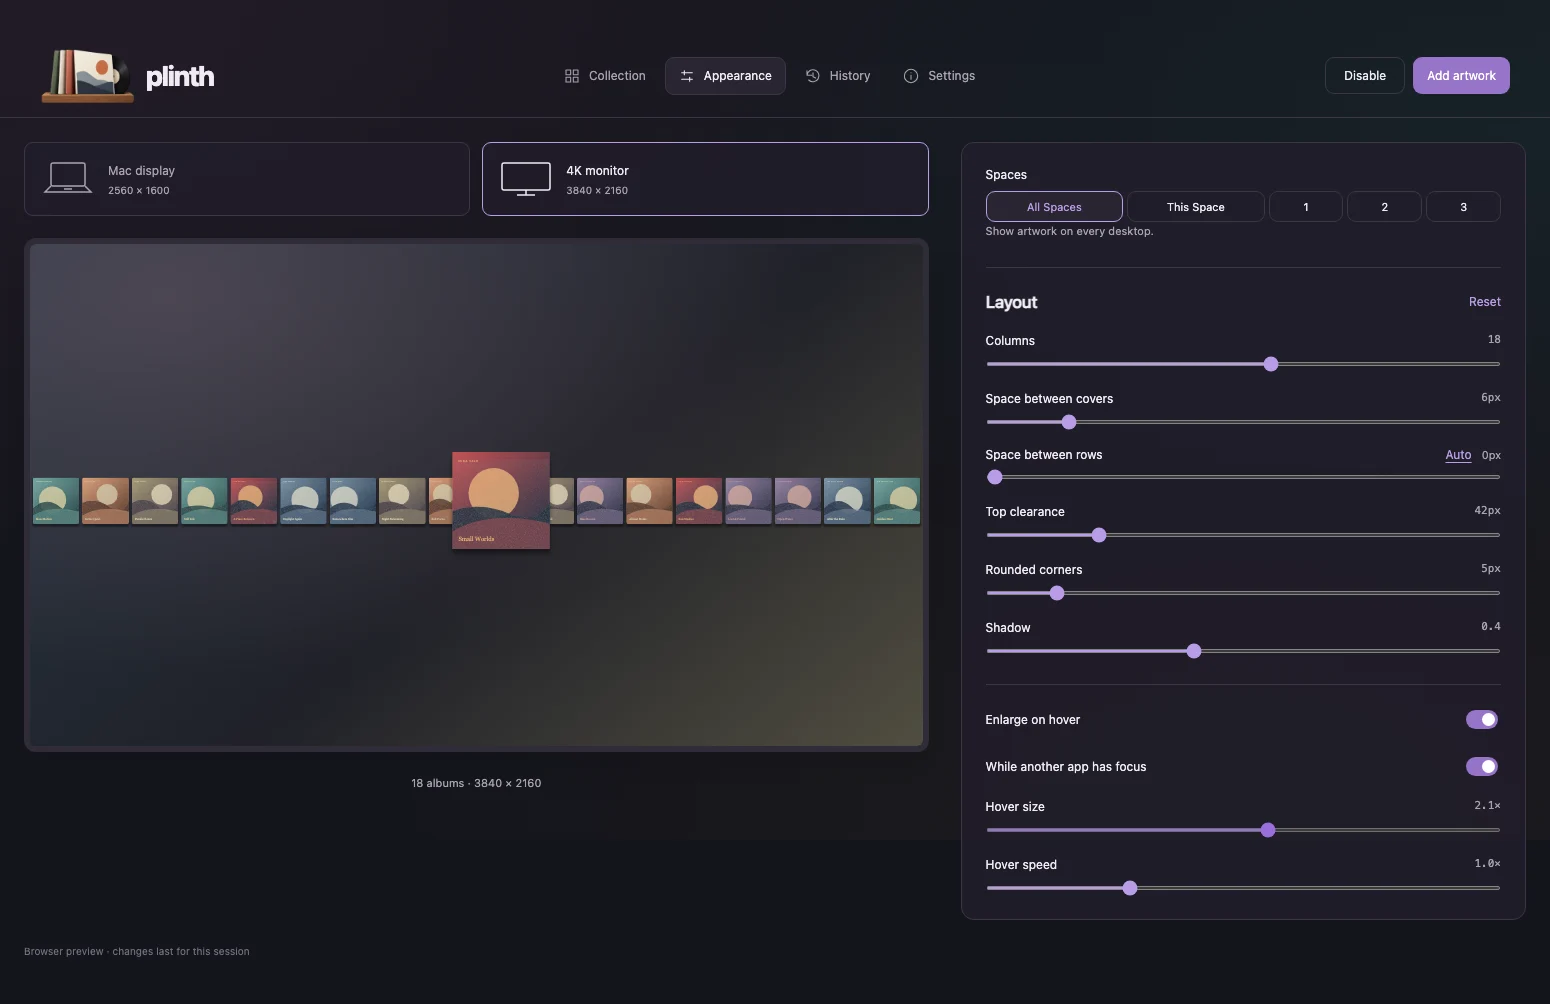
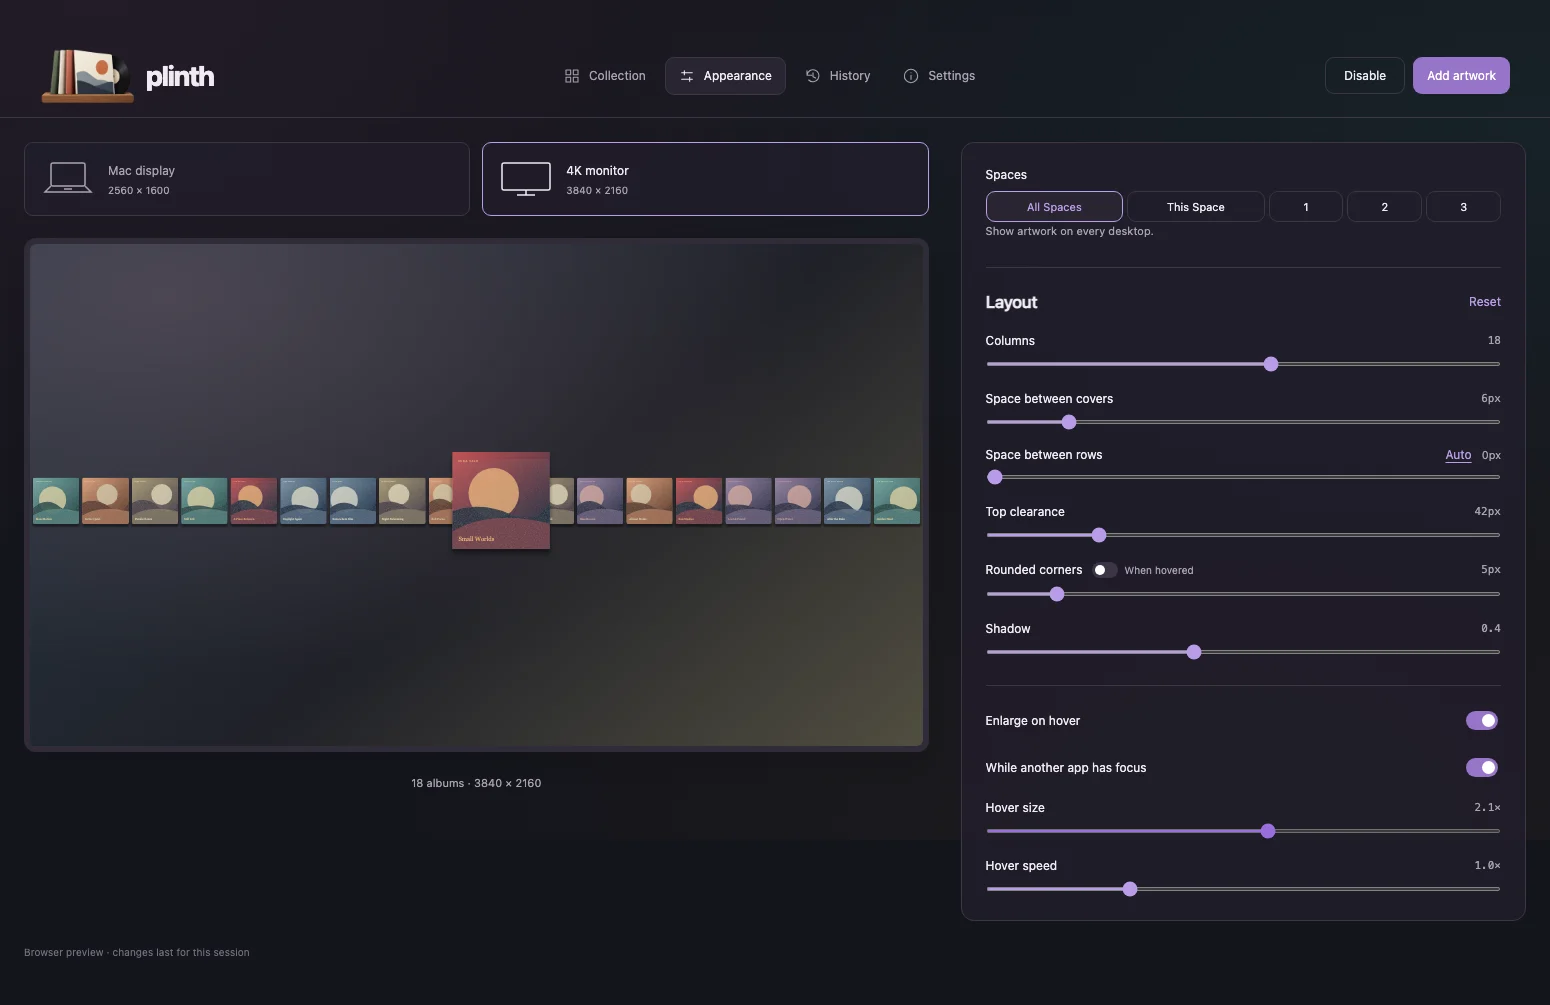
Add optional rounded corners during hover

diff --git a/src/App.svelte b/src/App.svelte
@@ -89,7 +89,7 @@
   const snapshot=structuredClone(library.settings)
   saveTimer=setTimeout(()=>{saveQueue=saveQueue.then(()=>api.saveSettings(snapshot)).then(()=>{if(revision===settingsRevision)settingsDirty=false}).catch(e=>{error=String(e)})},100)
  }
- function changeLayout(key:keyof Layout,value:number|null) {library.settings[profile]={...layout,[key]:value};persist()}
+ function changeLayout(key:keyof Layout,value:number|boolean|null) {library.settings[profile]={...layout,[key]:value};persist()}
  async function importPaths(paths:string[]) {if(!paths.length)return;busy=true;error='';try{const r=await api.importPaths(paths);message(`${r.added} artwork${r.added===1?'':'s'} added${r.duplicates?` · ${r.duplicates} already in your collection`:''}`);if(r.errors.length)error=r.errors.join('\n')}catch(e){error=String(e)}finally{busy=false}}
  async function choose() {if(!api.native){files.click();return}try{await importPaths(await api.chooseImages())}catch(e){error=String(e)}}
  async function browserFiles(selected:File[]) {busy=true;try{const r=await api.importBrowserFiles(selected);message(`${r.added} artworks added${r.duplicates?` · ${r.duplicates} already in your collection`:''}`);if(r.errors.length)error=r.errors.join('\n')}catch(e){error=String(e)}finally{busy=false}}
@@ -198,7 +198,7 @@
      <div class="preview-render" style={`width:${screen.width}px;height:${screen.height}px;transform:scale(${previewWidth/screen.width})`}><Desktop bind:this={desktopPreview} {library} preview forcedLayout={layout} viewportHeight={screen.height} viewportWidth={screen.width} menuBarHeight={screen.menuBarHeight}/></div>
     </div></div><p class="preview-note">{enabled.length} albums · {screen.pixels}</p></section>
     <section class="controls panel"><div class="spaces-field"><span id="spaces-label">Spaces</span><div class="space-options" onpointerenter={()=>void refreshSpaces()} role="group" aria-labelledby="spaces-label"><button aria-pressed={settings.allSpaces&&!settings.targetSpace} disabled={spaceSaving} onclick={()=>void chooseSpace('all')}>All Spaces</button><button aria-pressed={!settings.allSpaces&&!settings.targetSpace} disabled={spaceSaving} onclick={()=>void chooseSpace('current')}>This Space</button>{#each [1,2,3] as number}<button aria-label={`Space ${number}`} aria-pressed={settings.targetSpace===number} disabled={spaceSaving||!availableSpaces.includes(number)} title={availableSpaces.includes(number)?`Desktop ${number}`:`Create Desktop ${number} in Mission Control`} onclick={()=>void chooseSpace(number)}>{number}</button>{/each}</div></div><p class="field-note">{spacesReason?spacesReason:settings.targetSpace?(availableSpaces.includes(settings.targetSpace)?`Keep artwork on Desktop ${settings.targetSpace}.`:`Desktop ${settings.targetSpace} is unavailable. Create it in Mission Control or choose another option.`):settings.allSpaces?'Show artwork on every desktop.':'Use the active desktop when artwork is enabled.'}</p><div class="control-divider"></div><div class="panel-heading" style="margin-top:24px"><h2>Layout</h2><button class="text-button" onclick={resetLayout}>Reset</button></div>
-    {#each [{key:'columns',label:'Columns',min:3,max:30,step:1,unit:''},{key:'gap',label:'Space between covers',min:0,max:40,step:1,unit:'px'},{key:'top',label:'Top clearance',min:0,max:200,step:1,unit:'px'},{key:'radius',label:'Rounded corners',min:0,max:40,step:1,unit:'px'},{key:'shadow',label:'Shadow',min:0,max:1,step:.05,unit:''}] as control}<label class="slider-field"><span>{control.label}<output>{layout[control.key as keyof Layout]}{control.unit}</output></span><input type="range" aria-label={control.label} min={control.min} max={control.max} step={control.step} value={layout[control.key as keyof Layout]} oninput={(e)=>changeLayout(control.key as keyof Layout,Number(e.currentTarget.value))}/></label>{#if control.key==='gap'}
+    {#each [{key:'columns',label:'Columns',min:3,max:30,step:1,unit:''},{key:'gap',label:'Space between covers',min:0,max:40,step:1,unit:'px'},{key:'top',label:'Top clearance',min:0,max:200,step:1,unit:'px'},{key:'radius',label:'Rounded corners',min:0,max:40,step:1,unit:'px'},{key:'shadow',label:'Shadow',min:0,max:1,step:.05,unit:''}] as control}<div class="slider-field"><span><label for={`layout-${control.key}`}>{control.label}</label>{#if control.key==='radius'}<label class="hover-corners-toggle"><input class="switch" type="checkbox" checked={layout.roundedOnHover??false} onchange={(e)=>changeLayout('roundedOnHover',e.currentTarget.checked)}/>When hovered</label>{/if}<output>{layout[control.key as keyof Layout]}{control.unit}</output></span><input id={`layout-${control.key}`} type="range" aria-label={control.label} min={control.min} max={control.max} step={control.step} value={layout[control.key as keyof Layout]} oninput={(e)=>changeLayout(control.key as keyof Layout,Number(e.currentTarget.value))}/></div>{#if control.key==='gap'}
     <div class="row-spacing-field"><div><label for="row-spacing">Space between rows</label><button class="text-button" aria-label="Automatic row spacing" aria-pressed={layout.rowGap===null} onclick={()=>changeLayout('rowGap',null)}>Auto</button><output for="row-spacing">{Math.round(rowSpacing.rowGap)}px</output></div><input id="row-spacing" aria-label="Space between rows" type="range" min="0" max={Math.max(80,Math.ceil(desktopSpacing({...layout,rowGap:null},screen.width,screen.height,enabled.length,screen.menuBarHeight).rowGap),layout.rowGap??0)} step="1" value={rowSpacing.rowGap} oninput={(e)=>changeLayout('rowGap',Number(e.currentTarget.value))}/></div>
     {/if}{/each}
     <div class="control-divider"></div><label class="toggle-row"><span>Enlarge on hover</span><input class="switch" type="checkbox" bind:checked={settings.hoverEnabled} onchange={persist}/></label><label class="toggle-row"><span>While another app has focus</span><input class="switch" type="checkbox" disabled={!settings.hoverEnabled} bind:checked={settings.hoverInBackground} onchange={persist}/></label><label class="slider-field"><span>Hover size<output>{settings.hoverScale.toFixed(1)}×</output></span><input aria-label="Hover size" onpointerdown={startHoverPreview} onlostpointercapture={stopHoverPreview} type="range" min="1" max="3" step=".1" bind:value={settings.hoverScale} oninput={persist}/></label><label class="slider-field"><span>Hover speed<output>{(settings.hoverSpeed??1).toFixed(2).replace(/0$/,'')}×</output></span><input aria-label="Hover speed" onpointerdown={startHoverPreview} onlostpointercapture={stopHoverPreview} type="range" min=".25" max="3" step=".25" bind:value={settings.hoverSpeed} oninput={persist}/></label></section></div>

diff --git a/src/lib/types.ts b/src/lib/types.ts
@@ -1,9 +1,9 @@
 import type { LogoId } from './logos'
 export interface Album { id: string; title: string; artist: string; date: string; url: string; cover: string; original: string; enabled: boolean }
-export interface Layout { columns: number; gap: number; rowGap: number|null; top: number; radius: number; shadow: number }
+export interface Layout { columns: number; gap: number; rowGap: number|null; top: number; radius: number; roundedOnHover: boolean; shadow: number }
 export interface Settings { layout: Layout; wideLayout: Layout; hoverScale: number; hoverSpeed: number; hoverEnabled: boolean; hoverInBackground: boolean; sort: string; shuffleSeed: number; theme: string; logo: LogoId; desktopEnabled: boolean; allSpaces: boolean; targetSpace: number|null; openMode: string }
 export interface Library { albums: Album[]; settings: Settings }
-export const defaultLayout: Layout = { columns: 12, gap: 6, rowGap: null, top: 42, radius: 5, shadow: .4 }
+export const defaultLayout: Layout = { columns: 12, gap: 6, rowGap: null, top: 42, radius: 5, roundedOnHover: false, shadow: .4 }
 export const defaultSettings: Settings = { layout: {...defaultLayout}, wideLayout: {...defaultLayout, columns: 18}, hoverScale: 2.1, hoverSpeed: 1, hoverEnabled: true, hoverInBackground: true, sort: 'artist', shuffleSeed:0, theme: 'dark', logo: 'logo-1', desktopEnabled: true, allSpaces: true, targetSpace: null, openMode: 'library' }
 function shuffleRank(id:string,seed:number){let h=seed^2166136261;for(let i=0;i<id.length;i++){h=Math.imul(h^id.charCodeAt(i),16777619)}h=Math.imul(h^(h>>>16),2246822507);h=Math.imul(h^(h>>>13),3266489909);return (h^(h>>>16))>>>0}
 export function ordered(albums: Album[], sort: string, seed=0) { return [...albums].sort((a,b) => sort === 'shuffle' ? shuffleRank(a.id,seed)-shuffleRank(b.id,seed) : sort === 'date' ? b.date.localeCompare(a.date) : sort === 'oldest' ? a.date.localeCompare(b.date) : sort === 'title' ? a.title.localeCompare(b.title) : a.artist.localeCompare(b.artist) || a.date.localeCompare(b.date) || a.title.localeCompare(b.title)) }

diff --git a/tests/hover-size.spec.ts b/tests/hover-size.spec.ts
@@ -78,3 +78,27 @@ test('background hover option sits beneath enlarge and restores through history'
  await enlarge.uncheck();await expect(background).toBeDisabled()
  await enlarge.check();await expect(background).toBeEnabled();await expect(background).not.toBeChecked()
 })
+
+test('rounded corners on hover default off and restore independently for each display',async({page})=>{
+ await page.goto('/?demo=1');await page.getByRole('button',{name:'Appearance',exact:true}).click()
+ const toggle=page.getByRole('checkbox',{name:'When hovered',exact:true})
+ await expect(toggle).not.toBeChecked()
+ await page.getByRole('slider',{name:'Rounded corners',exact:true}).fill('20')
+ await toggle.check()
+ const cover=page.locator('.preview-render .desktop-cover').first()
+ await cover.hover()
+ await expect(cover).toHaveClass(/enlarged/)
+ await expect(cover).toHaveCSS('border-radius','20px')
+ await page.mouse.move(0,0)
+ await page.keyboard.press('Meta+z');await expect(toggle).not.toBeChecked()
+ await cover.hover();await expect(cover).toHaveCSS('border-radius','0px')
+ await page.mouse.move(0,0)
+ await page.keyboard.press('Meta+Shift+z');await expect(toggle).toBeChecked()
+ await cover.hover();await expect(cover).toHaveCSS('border-radius','20px')
+ await page.getByRole('button',{name:/4K monitor/}).click()
+ await expect(toggle).not.toBeChecked()
+ await page.getByRole('button',{name:/Mac display/}).click()
+ await expect(toggle).toBeChecked()
+ await page.getByRole('button',{name:'History',exact:true}).click()
+ await expect(page.locator('.history-list')).toContainText('Rounded corners when hovered: Off → On')
+})

diff --git a/src/lib/Desktop.svelte b/src/lib/Desktop.svelte
@@ -54,7 +54,7 @@
  <div class="desktop-grid" bind:this={grid} style={`--columns:${layout.columns};--cover-size:${desktopCoverSize(layout,viewportWidth??width)}px;--gap:${layout.gap}px;--row-gap:${spacing.rowGap}px;--top:${spacing.top}px;--radius:${layout.radius}px;--shadow:${layout.shadow};--scale:${settings.hoverScale}`}>
  {#each albums as album (album.id)}
   <div class="desktop-cell" data-id={album.id}>
-   <button use:swingScale={{active:activeHover===album.id,factor:settings.hoverScale,speed:settings.hoverSpeed??1,radius:layout.radius}} class:enlarged={activeHover===album.id} class="desktop-cover" onclick={()=>open(album.id)} onfocus={()=>hovered=album.id} onblur={()=>hovered=''} aria-label={`Open ${album.title} by ${album.artist}`} title={`${album.artist} — ${album.title}`}><img src={coverUrl(album)} alt={album.title} draggable="false"/></button>
+   <button use:swingScale={{active:activeHover===album.id,factor:settings.hoverScale,speed:settings.hoverSpeed??1,radius:layout.radius,roundedOnHover:layout.roundedOnHover??false}} class:enlarged={activeHover===album.id} class="desktop-cover" onclick={()=>open(album.id)} onfocus={()=>hovered=album.id} onblur={()=>hovered=''} aria-label={`Open ${album.title} by ${album.artist}`} title={`${album.artist} — ${album.title}`}><img src={coverUrl(album)} alt={album.title} draggable="false"/></button>
   </div>
  {/each}
  </div>

diff --git a/src/lib/motion.ts b/src/lib/motion.ts
@@ -1,10 +1,10 @@
 // Keep jQuery swing easing; 1× uses the original 250/251 ms timing.
-export function swingScale(node: HTMLElement, options: {active:boolean;factor:number;speed:number;radius:number}) {
+export function swingScale(node: HTMLElement, options: {active:boolean;factor:number;speed:number;radius:number;roundedOnHover:boolean}) {
  let scale=1,radius=options.radius,frame=0,target=1,targetRadius=radius,speed=options.speed
  function paint(){node.style.transform=`scale(${scale})`;node.style.borderRadius=`${radius}px`}
  paint()
  function update(next:typeof options) {
-  const end=next.active?next.factor:1,endRadius=next.active?0:next.radius
+  const end=next.active?next.factor:1,endRadius=next.active&&!next.roundedOnHover?0:next.radius
   if(end===target&&endRadius===targetRadius&&speed===next.speed)return
   target=end;targetRadius=endRadius;speed=next.speed;cancelAnimationFrame(frame)
   const start=scale,startRadius=radius,started=performance.now(),duration=(next.active?250:251)/next.speed

diff --git a/src/lib/history.ts b/src/lib/history.ts
@@ -28,7 +28,7 @@ function describe(before:Library,after:Library) {
   if(before.settings[key]!==after.settings[key])settings.push(`${label}: ${display(before.settings[key])} → ${display(after.settings[key])}`)
  }
  for(const [profile,name] of [['layout','Mac display'],['wideLayout','4K monitor']] as const){
-  for(const [key,label] of [['columns','Columns'],['gap','Space between covers'],['rowGap','Space between rows'],['top','Top clearance'],['radius','Rounded corners'],['shadow','Shadow']] as const){
+  for(const [key,label] of [['columns','Columns'],['gap','Space between covers'],['rowGap','Space between rows'],['top','Top clearance'],['radius','Rounded corners'],['roundedOnHover','Rounded corners when hovered'],['shadow','Shadow']] as const){
    if(before.settings[profile][key]!==after.settings[profile][key])settings.push(`${name} · ${label}: ${display(before.settings[profile][key])} → ${display(after.settings[profile][key])}`)
   }
  }

diff --git a/src/app.css b/src/app.css
@@ -41,3 +41,5 @@ dialog{width:min(510px,calc(100vw - 40px));padding:26px;border:1px solid var(--l
 .add-artwork kbd{color:inherit;border-color:#ffffff45}
 
 .spaces-field{display:grid;gap:9px;font-size:12px}.space-options{display:flex;gap:4px}.space-options button{flex:1;min-width:0;white-space:nowrap;padding:8px 5px;font-size:11px}.space-options button:nth-child(-n+2){flex:2}.space-options button[aria-pressed=true]{background:var(--paper-strong);border-color:var(--accent);color:var(--accent)}
+
+.slider-field{display:grid}.slider-field>span{align-items:center;gap:10px}.slider-field>span>output{margin-left:auto}.hover-corners-toggle{display:flex;align-items:center;gap:6px;font-size:10px;color:var(--muted);white-space:nowrap}.hover-corners-toggle .switch{width:26px;height:16px;margin:0}.hover-corners-toggle .switch:after{width:10px;height:10px}.hover-corners-toggle .switch:checked:after{transform:translateX(10px)}

diff --git a/src-tauri/src/library.rs b/src-tauri/src/library.rs
@@ -25,6 +25,7 @@ pub struct Layout {
     pub row_gap: Option<f64>,
     pub top: f64,
     pub radius: f64,
+    pub rounded_on_hover: bool,
     pub shadow: f64,
 }
 impl Default for Layout {
@@ -35,6 +36,7 @@ impl Default for Layout {
             row_gap: None,
             top: 42.,
             radius: 5.,
+            rounded_on_hover: false,
             shadow: 0.4,
         }
     }
@@ -289,6 +291,17 @@ pub fn validate_settings(s: &Settings) -> Result<(), String> {
 #[cfg(test)]
 mod tests {
     use super::*;
+    #[test]
+    fn rounded_hover_defaults_and_round_trips() {
+        let mut settings: Settings = serde_json::from_str(r#"{"layout":{"radius":20}}"#).unwrap();
+        assert!(!settings.layout.rounded_on_hover);
+        assert!(!settings.wide_layout.rounded_on_hover);
+        settings.layout.rounded_on_hover = true;
+        let restored: Settings =
+            serde_json::from_str(&serde_json::to_string(&settings).unwrap()).unwrap();
+        assert!(restored.layout.rounded_on_hover);
+        assert!(!restored.wide_layout.rounded_on_hover);
+    }
     #[test]
     fn hover_speed_defaults_and_validates() {
         let mut settings: Settings = serde_json::from_str("{}").unwrap();

diff --git a/src-tauri/src/history.rs b/src-tauri/src/history.rs
@@ -187,6 +187,7 @@ fn settings_details(before: &Settings, after: &Settings) -> Vec<String> {
             ("rowGap", "Space between rows"),
             ("top", "Top clearance"),
             ("radius", "Rounded corners"),
+            ("roundedOnHover", "Rounded corners when hovered"),
             ("shadow", "Shadow"),
         ] {
             if before[key][field] != after[key][field] {
